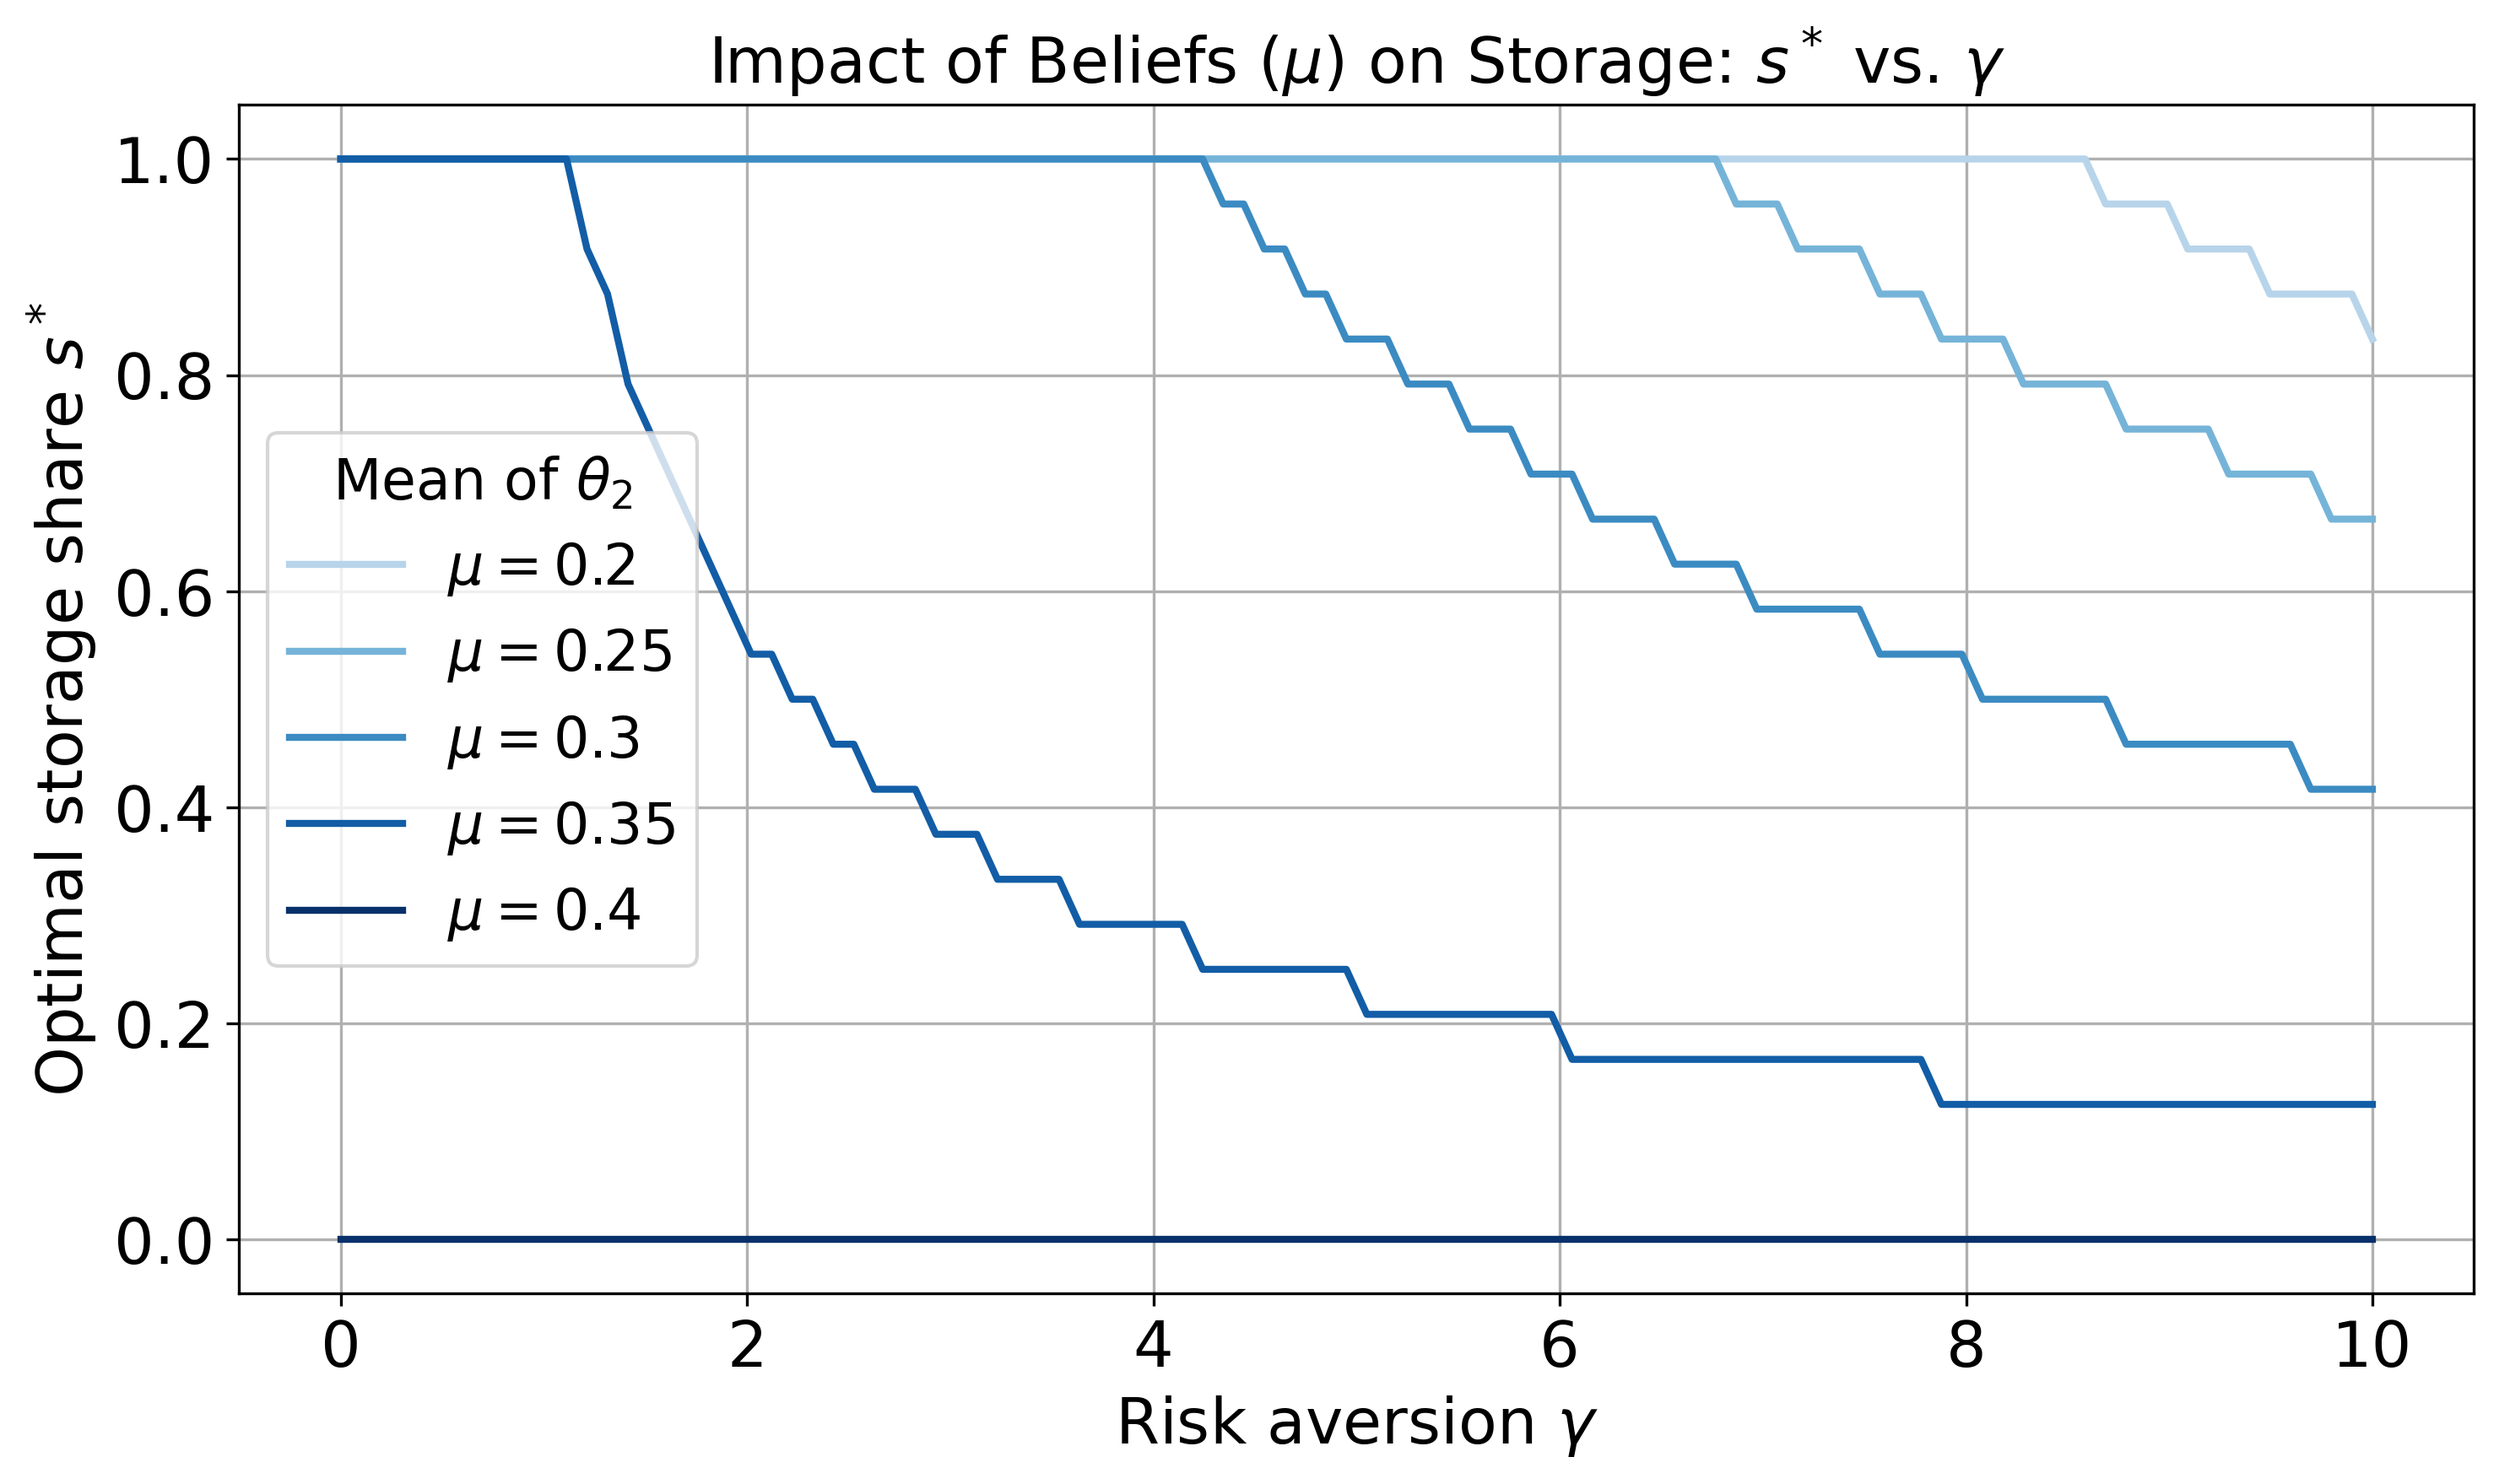
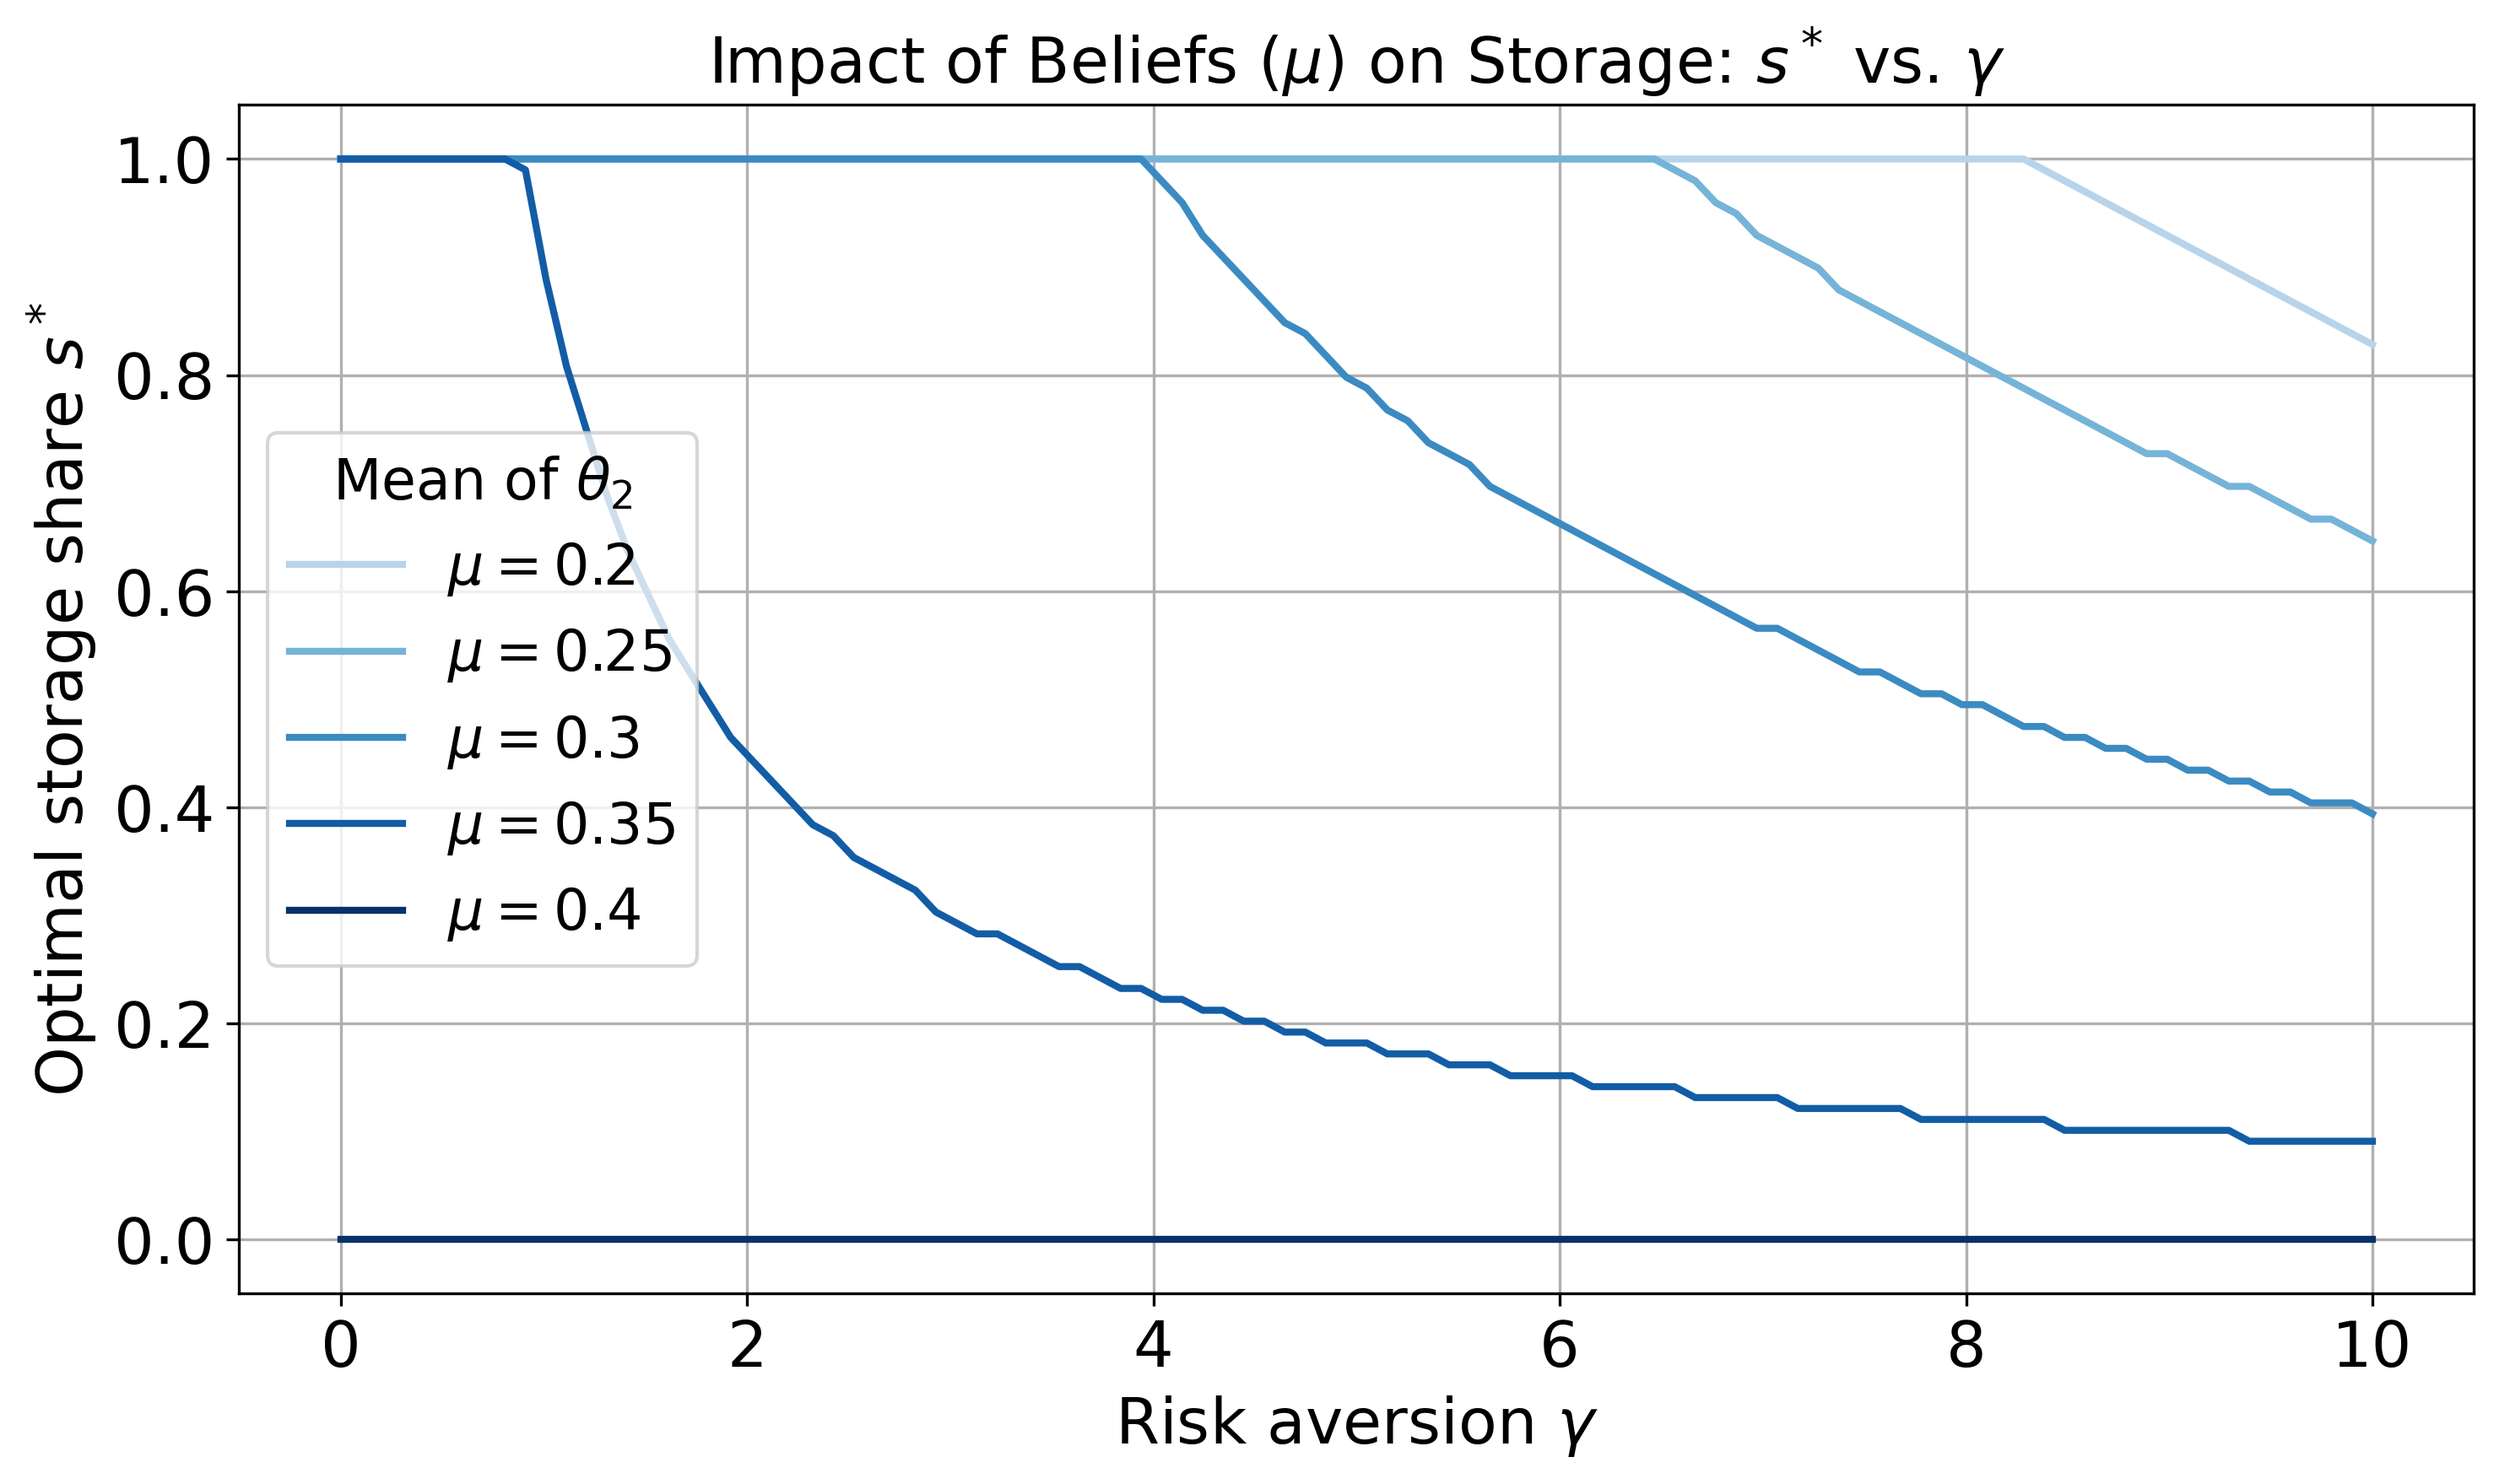
supply elasticity update

diff --git a/code/python_theoritical_model/supply_elasticity_check.py b/code/python_theoritical_model/supply_elasticity_check.py
@@ -1,0 +1,176 @@
+import os
+import numpy as np
+import matplotlib.pyplot as plt
+from scipy.stats import beta
+
+# --------------------------------
+# Paths
+# --------------------------------
+# 当前文件所在目录
+current_dir = os.path.dirname(os.path.abspath(__file__))
+# 上一级目录
+parent_dir = os.path.dirname(current_dir)
+# 上两级目录
+grandparent_dir = os.path.dirname(parent_dir)
+# 上两级平行目录（例如 results）
+target_dir = os.path.join(grandparent_dir, "model_figures")
+
+# 如果目标文件夹不存在就新建
+os.makedirs(target_dir, exist_ok=True)
+
+# --------------------------------
+# Global font settings (larger)
+# --------------------------------
+plt.rcParams.update({
+    "axes.titlesize": 22,      # panel titles
+    "axes.labelsize": 20,      # axis labels
+    "xtick.labelsize": 18,     # x tick labels
+    "ytick.labelsize": 18,     # y tick labels
+    "legend.fontsize": 18,     # legend entries
+    "legend.title_fontsize": 19,
+    "figure.titlesize": 26     # suptitle
+})
+
+# --------------------------------
+# Constants
+# --------------------------------
+theta1 = 0.5
+# First-period price: normalized ε1 = 1
+p1 = 1 / (1 + theta1)
+
+kappa = 0.9
+delta = 1.0
+num_draws = 5000
+variance = 0.05          # Var(theta_2)
+s_grid = np.linspace(0, 1, 100)
+
+# Set of second-period supply elasticities
+eps2_values = [0.75, 1.00, 1.25]
+
+# --------------------------------
+# Helper functions
+# --------------------------------
+def crra_utility(pi, gamma):
+    pi = np.maximum(pi, 1e-8)
+    if gamma == 1:
+        return np.log(pi)
+    else:
+        return (pi**(1 - gamma) - 1) / (1 - gamma)
+
+def optimize_s(theta2_draws, gamma, eps2):
+    """
+    θ2 ~ Beta(μ, variance)
+    p2(θ2, ε2) = ε2 / (ε2 + θ2)
+    """
+    # Second-period price draws given ε2
+    p2_draws = eps2 / (eps2 + theta2_draws)
+
+    if gamma == 0:
+        expected_p2 = np.mean(p2_draws)
+        return 1.0 if delta * kappa * expected_p2 > p1 else 0.0
+
+    utilities = []
+    for s in s_grid:
+        income = (1 - s) * p1 + delta * s * kappa * p2_draws
+        util = np.mean(crra_utility(income, gamma))
+        utilities.append(util)
+    return s_grid[np.argmax(utilities)]
+
+def compute_beta_params(mu, sigma2):
+    factor = mu * (1 - mu) / sigma2 - 1
+    alpha = mu * factor
+    beta_param = (1 - mu) * factor
+    return alpha, beta_param
+
+# --------------------------------
+# Main Simulation
+# --------------------------------
+mu_fixed = 0.2
+gamma_grid = np.linspace(0, 10, 100)
+results_eps2 = {eps2: [] for eps2 in eps2_values}
+expected_p2 = {}
+
+# Draw θ2 once (same uncertainty for all ε2)
+alpha, beta_param = compute_beta_params(mu_fixed, variance)
+theta2_draws = beta.rvs(alpha, beta_param, size=num_draws)
+
+for eps2 in eps2_values:
+    # implied expected second-period price for this ε2
+    p2_draws = eps2 / (eps2 + theta2_draws)
+    expected_p2[eps2] = np.mean(p2_draws)
+
+    for gamma in gamma_grid:
+        s_star = optimize_s(theta2_draws, gamma, eps2)
+        results_eps2[eps2].append(s_star)
+
+# Optional: print implied E[p2]
+for eps2 in eps2_values:
+    print(f"eps2 = {eps2:.2f}, E[p2] ≈ {expected_p2[eps2]:.4f}")
+
+# --------------------------------
+# Plotting: 2-panel figure
+# --------------------------------
+colors = plt.cm.Blues(np.linspace(0.3, 1, len(eps2_values)))
+fig, axes = plt.subplots(1, 2, figsize=(18, 7))
+
+# Panel (a): s* vs gamma for different ε2
+for i, eps2 in enumerate(eps2_values):
+    axes[0].plot(
+        gamma_grid,
+        results_eps2[eps2],
+        label=fr"$\varepsilon_2 = {eps2:.2f}$",
+        color=colors[i],
+        linewidth=3
+    )
+
+axes[0].set_xlabel(r"Risk aversion $\gamma$")
+axes[0].set_ylabel(r"Optimal storage share $s^*$")
+axes[0].set_title(r"(a) $s^*(\gamma)$ under different $\varepsilon_2$")
+axes[0].legend(title=r"$\varepsilon_2$", loc="lower left")
+axes[0].grid(True, linewidth=0.6)
+
+# Panel (b): implied expected p2 for each ε2
+eps_indices = np.arange(len(eps2_values))
+p2_values = [expected_p2[eps] for eps in eps2_values]
+
+bars = axes[1].bar(eps_indices, p2_values, color=colors, width=0.6)
+
+axes[1].set_xticks(eps_indices)
+axes[1].set_xticklabels(
+    [fr"$\varepsilon_2={eps2:.2f}$" for eps2 in eps2_values]
+)
+axes[1].set_ylabel(r"Expected second-period price  $\mathbb{E}[p_2]$")
+axes[1].set_title(
+    r"(b) Implied $\mathbb{E}[p_2]$ under fixed "
+    fr"$\mu={mu_fixed}$"
+)
+axes[1].grid(axis="y", linewidth=0.6)
+
+# Add value labels above bars
+for rect, val in zip(bars, p2_values):
+    height = rect.get_height()
+    axes[1].text(
+        rect.get_x() + rect.get_width() / 2,
+        height + 0.005,
+        f"{val:.3f}",
+        ha='center',
+        va='bottom',
+        fontsize=18,
+        fontweight='bold'
+    )
+
+# Figure title
+fig.suptitle(
+    r"Impact of Second-Period Supply Elasticity on Storage and Expected Price"
+    + "\n"
+    + rf"($\mu={mu_fixed}$,  $Var(\theta_2)={variance}$,  $\theta_1={theta1}$,  $\kappa={kappa}$)",
+    y=1.02
+)
+
+plt.tight_layout()
+plt.savefig(
+    os.path.join(target_dir, "sensitivity_to_gamma_eps2_with_p2_panel.png"),
+    dpi=300,
+    bbox_inches="tight"
+)
+plt.show()

diff --git a/code/python_theoritical_model/supply_elasticity_3D.py b/code/python_theoritical_model/supply_elasticity_3D.py
@@ -1,0 +1,154 @@
+import os
+import numpy as np
+import matplotlib.pyplot as plt
+from scipy.stats import beta
+from mpl_toolkits.mplot3d import Axes3D
+import matplotlib.gridspec as gridspec
+
+# Global font settings
+plt.rcParams.update({
+    "axes.titlesize": 14,      # panel titles
+    "axes.labelsize": 14,      # axis labels
+    "xtick.labelsize": 14,     # x tick labels
+    "ytick.labelsize": 14,     # y tick labels
+    "legend.fontsize": 14,     # legend entries
+    "legend.title_fontsize": 14,
+    "figure.titlesize": 20     # suptitle
+})
+
+# --------------------------------
+# Paths
+# --------------------------------
+current_dir = os.path.dirname(os.path.abspath(__file__))
+parent_dir = os.path.dirname(current_dir)
+grandparent_dir = os.path.dirname(parent_dir)
+target_dir = os.path.join(grandparent_dir, "model_figures")
+os.makedirs(target_dir, exist_ok=True)
+
+# --------------------------------
+# Constants
+# --------------------------------
+theta1 = 0.5
+# First-period price: normalized ε1 = 1
+p1 = 1 / (1 + theta1)
+delta = 1.0
+
+s_grid = np.linspace(0, 1, 100)
+gamma_grid = np.linspace(0, 10, 50)
+kappa_grid = np.linspace(0.6, 1.0, 50)
+num_draws = 5000
+
+# Means for θ2
+means_modified = [0.2, 0.4, 0.5, 0.8]
+# Fixed variance of θ2
+var_theta2 = 0.05
+# Second-period supply elasticities: one per row
+eps2_values = [0.75, 1.00, 1.25]
+
+# --------------------------------
+# Helper functions
+# --------------------------------
+def compute_beta_params(mu, sigma2):
+    factor = mu * (1 - mu) / sigma2 - 1
+    alpha = mu * factor
+    beta_param = (1 - mu) * factor
+    return alpha, beta_param
+
+def crra_utility(pi, gamma):
+    pi = np.maximum(pi, 1e-8)
+    if gamma == 1:
+        return np.log(pi)
+    else:
+        return (pi**(1 - gamma) - 1) / (1 - gamma)
+
+def optimize_storage_share(theta2_draws, gamma, kappa, eps2):
+    """
+    θ2 ~ Beta(μ, var_theta2)
+    p2(θ2, ε2) = ε2 / (ε2 + θ2)
+    """
+    # Second-period price draws given ε2
+    p2_draws = eps2 / (eps2 + theta2_draws)
+
+    if gamma == 0:
+        expected_p2 = np.mean(p2_draws)
+        return 1.0 if delta * kappa * expected_p2 > p1 else 0.0
+
+    utilities = []
+    for s in s_grid:
+        income = (1 - s) * p1 + delta * s * kappa * p2_draws
+        util = np.mean(crra_utility(income, gamma))
+        utilities.append(util)
+    return s_grid[np.argmax(utilities)]
+
+# --------------------------------
+# Simulation: build 3D surfaces
+# surfaces[row_idx][col_idx] = s*(γ, κ) for given (ε2, μ)
+# --------------------------------
+surfaces = [[None for _ in means_modified] for _ in eps2_values]
+
+for col_idx, mu in enumerate(means_modified):
+    # Draw θ2 once for each μ, reused across ε2 to isolate elasticity effect
+    alpha, beta_param = compute_beta_params(mu, var_theta2)
+    theta2_draws = beta.rvs(alpha, beta_param, size=num_draws)
+
+    for row_idx, eps2 in enumerate(eps2_values):
+        surface = np.zeros((len(gamma_grid), len(kappa_grid)))
+        for i, gamma in enumerate(gamma_grid):
+            for j, kappa in enumerate(kappa_grid):
+                s_star = optimize_storage_share(theta2_draws, gamma, kappa, eps2)
+                surface[i, j] = s_star
+        surfaces[row_idx][col_idx] = surface
+
+# --------------------------------
+# Plotting: 3 rows (ε2), 4 cols (μ)
+# --------------------------------
+fig = plt.figure(figsize=(22, 13))  # big enough canvas
+
+gs = fig.add_gridspec(
+    nrows=len(eps2_values),
+    ncols=len(means_modified),
+    left=0.04,
+    right=0.98,
+    top=0.90,
+    bottom=0.06,
+    wspace=0.15,    # expanded for readable axis labels
+    hspace=0.40
+)
+
+X, Y = np.meshgrid(kappa_grid, gamma_grid)
+
+for row_idx, eps2 in enumerate(eps2_values):
+    for col_idx, mu in enumerate(means_modified):
+        ax = fig.add_subplot(gs[row_idx, col_idx], projection='3d')
+        Z = surfaces[row_idx][col_idx]
+
+        ax.plot_surface(X, Y, Z, cmap="viridis", edgecolor='none')
+        ax.set_zlim(0, 1)
+        ax.view_init(elev=30, azim=-135)
+
+        # Panel title
+        ax.set_title(
+            rf"$\mu={mu}$, $\varepsilon_2={eps2}$",
+            pad=8
+        )
+
+        # --- Make axis labels appear in ALL panels ---
+        ax.set_xlabel(r"$\kappa$", labelpad=6)
+        ax.set_ylabel(r"$\gamma$", labelpad=6)
+        ax.set_zlabel(r"$s^*$", labelpad=6)
+
+fig.suptitle(
+    r"Optimal Storage Share $s^*$ over $(\gamma,\kappa)$ "
+    r"for Different $\mu$ and $\varepsilon_2$"
+    "\n"
+    r"$\theta_1=0.5$, $\mathrm{Var}(\theta_2)=0.05$",
+    fontsize=20,
+    y=0.97
+)
+
+fig.savefig(
+    os.path.join(target_dir, "3D_formulation_supply_elasticity.png"),
+    dpi=300,
+    bbox_inches="tight"
+)
+plt.show()

diff --git a/code/python_theoritical_model/plot_4x4_panel.py b/code/python_theoritical_model/plot_4x4_panel.py
@@ -10,7 +10,7 @@ plt.rcParams.update({
     "axes.labelsize": 14,      # axis labels
     "xtick.labelsize": 14,     # x tick labels
     "ytick.labelsize": 14,     # y tick labels
-    "legend.fontsize": 13,     # legend entries
+    "legend.fontsize": 14,     # legend entries
     "legend.title_fontsize": 14,
     "figure.titlesize": 20     # suptitle
 })

diff --git a/code/python_theoritical_model/plot_s_star_curve.py b/code/python_theoritical_model/plot_s_star_curve.py
@@ -37,7 +37,7 @@ kappa = 0.9
 delta = 1.0
 num_draws = 5000
 variance = 0.02
-s_grid = np.linspace(0, 1, 25)
+s_grid = np.linspace(0, 1, 100)
 
 # CRRA utility function
 def crra_utility(pi, gamma):
